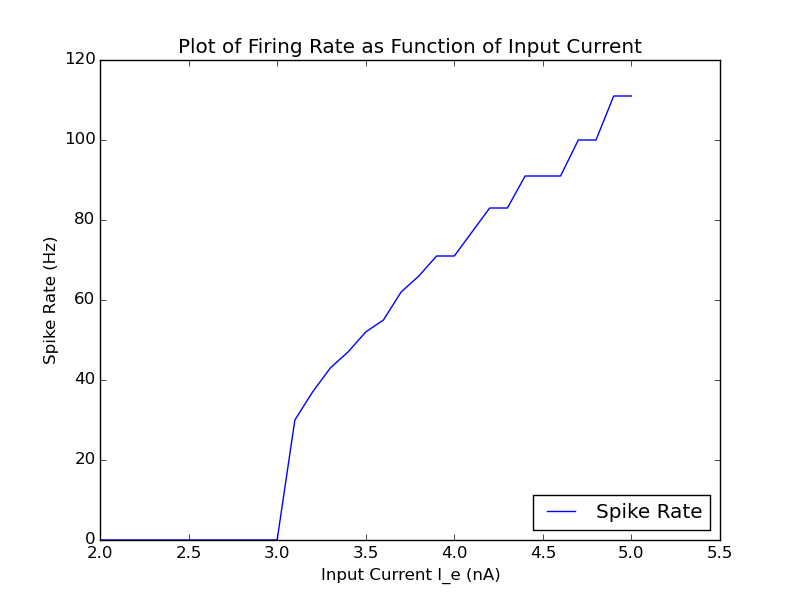
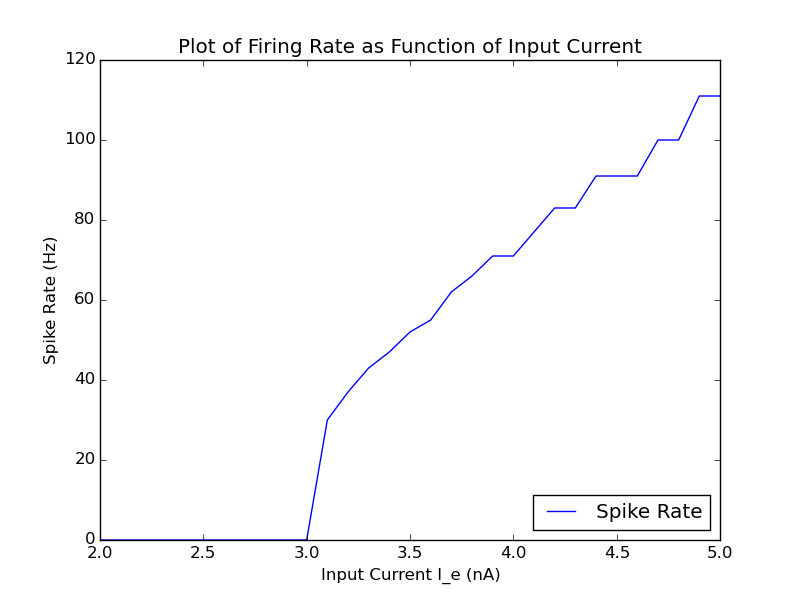
Final tidy-up. Report writing.

diff --git a/COMS30127/neuron/report.tex b/COMS30127/neuron/report.tex
@@ -1,72 +1,76 @@
-\documentclass[a4paper, 12pt]{article}
+\documentclass[a4paper, 10pt]{article}
 \usepackage{graphicx}
 \usepackage{float}
 \usepackage{geometry}
 \usepackage[font=small, skip=0pt]{caption}
 \usepackage{subcaption}
+\usepackage{siunitx}
+\usepackage{fancyhdr}
 \geometry{margin=20mm}
 \setlength{\textfloatsep}{4pt plus 1.0pt minus 2.0pt}
 \setlength{\intextsep}{6.0pt plus 1.0pt minus 1.0pt}
 \setlength{\belowcaptionskip}{-6pt}
+
+\pagestyle{fancy}
+\lhead{COMS30127 Lab 2}
+
 \begin{document}
 
-\begingroup
-  \centering
-  \LARGE Lab 2: Model of a single neuron
-\endgroup
+\section*{COMS30127 Lab 2: Model of a Single Neuron}
 
-\subsection*{Part 1: Simulate an integrate and fire model for 1s}
+\subsection*{Part 1: Simulated Integrate and Fire Model Neuron}
 \begin{figure}[H]
   \centering
-  \includegraphics[scale=0.4]{Part1.png}
-  \caption{The voltage of a single neuron simulated with the integrate and fire model for 1s.}
+  \includegraphics[scale=0.4]{p1.png}
+  \caption{The voltage of a single neuron with fixed input current simulated with the integrate and fire model for \SI{1}{\second}.}
+  \label{fig:n1}
 \end{figure}
 
-\subsection*{Part 2: Minimum current}
+\subsection*{Part 2: Minimum Current for Action Potential}
 
-The minimum current needed for the neuron in part 1 to produce an action potential is 3 nA.
-
-\begin{figure}[H]
-  \centering
-  \includegraphics[scale=0.4]{Part2.png}
-  \caption{This voltage of the neuron in part 1 but with an input current of 2.9 nA for 1 second}
-\end{figure}
-
-\subsection*{Part 3: Find the firing rate above the above neuron}
+The minimum required current, \(I_{min}\), for an action potential is \SI{3}{\nano\ampere}.
 
 \begin{figure}[H]
   \centering
-  \includegraphics[scale=0.4]{Part3.png}
-  \caption{The firing rate for currents ranging from 2 nA and 5 nA at intervals of 0.1 nA}
+  \includegraphics[scale=0.4]{p2b.png}
+  \caption{Simulation of the neuron from Part 1 with the fixed input current reduced to \(I_{min} - \SI{0.1}{\nano\ampere}\).}
 \end{figure}
 
-\subsection*{Part 4: Simulate two neurons with a synaptic connection}
+\subsection*{Part 3: Simulated Firing Rate Against Input Current}
+
+\begin{figure}[H]
+  \centering
+  \includegraphics[scale=0.4]{p3.png}
+  \caption{The firing rate for fixed input currents ranging from \SI{2}{\nano\ampere} and \SI{5}{\nano\ampere} sampled at \SI{0.1}{\nano\ampere} intervals, from \SI{1.0}{\second} simulations.}
+\end{figure}
+
+\subsection*{Part 4: Neuron Pair with Synaptic Connections}
 \begin{figure}[H]
   \centering
   \begin{subfigure}{.5\textwidth}
     \centering
-    \includegraphics[scale=0.4]{Part4a.png}
-    \caption{The voltage against time for two neurons 
-      \\with an excitatory synaptic connection}
+    \includegraphics[scale=0.4]{p4_Excitatory.png}
+    \caption{Excitatory Synaptic Connection}
     \label{fig:sub1}
   \end{subfigure}%
   \begin{subfigure}{.5\textwidth}
     \centering
-    \includegraphics[scale=0.4]{Part4b.png}
-    \caption{The voltage against time for two neurons 
-      \\with an inhibatory synaptic connection}
+    \includegraphics[scale=0.4]{p4_Inhibitory.png}
+    \caption{Inhibitory Synaptic Connection}
     \label{fig:sub2}
   \end{subfigure}
+  \par\medskip
+  \caption{Plot of the voltage of two neurons with synaptic connections of differing types over time.}
 \end{figure}
 
 \vspace{5mm}
-In figure 4, where the synaptic connection is excitatory the spikes of both neurons tend to synchronise. This is because the excitatory synapse causes one neuron to be more likely to fire when the other neuron is firing and vice-versa. On the other hand we can see from figure 5 that an inhibitory connection between these two neurons causes the spikes to diverge. This is because one neuron firing discourages the other neuron from firing, meaning they spread apart until they converge at the maximal distance from one another.
+The excitatory synaptic connection plot in figure \ref{fig:sub1} shows that the time between spikes quickly converges. This is because when one neuron spikes, the post-synaptic neuron experiences an increase of voltage. Converseley, the inhibitory synaptic connection in figure \ref{fig:sub2} shows that the spiking frequencies become out of phase. This is due to the post-synaptic potential decreasing. In both cases, the effect is compounded as the neurons spike, causing the effect to become more pronounced (until the neurons are either completely in or out of phase, respectively.
 
-\subsection*{Part 5: Add a slow potassium current}
+\subsection*{Part 5: Slow Potassium Current}
 \begin{figure}[H]
   \centering
-  \includegraphics[scale=0.4]{Part5.png}
-  \caption{The voltage of the neuron in part 1 for 1 second with a slow potassium current added}
+  \includegraphics[scale=0.4]{p5.png}
+  \caption{The simulated neuron shown in figure \ref{fig:n1} with an added slow potassium current.}
 \end{figure}
 
 \end{document}

diff --git a/COMS30127/neuron/neuron.py b/COMS30127/neuron/neuron.py
@@ -151,6 +151,7 @@ def part3():
     plt.ylabel('Spike Rate (Hz)')
     plt.xlabel('Input Current I_e (nA)')
     plt.legend(loc=4)
+    plt.xlim(2,5)
     plt.savefig('p3.png')
     plt.show()
 
